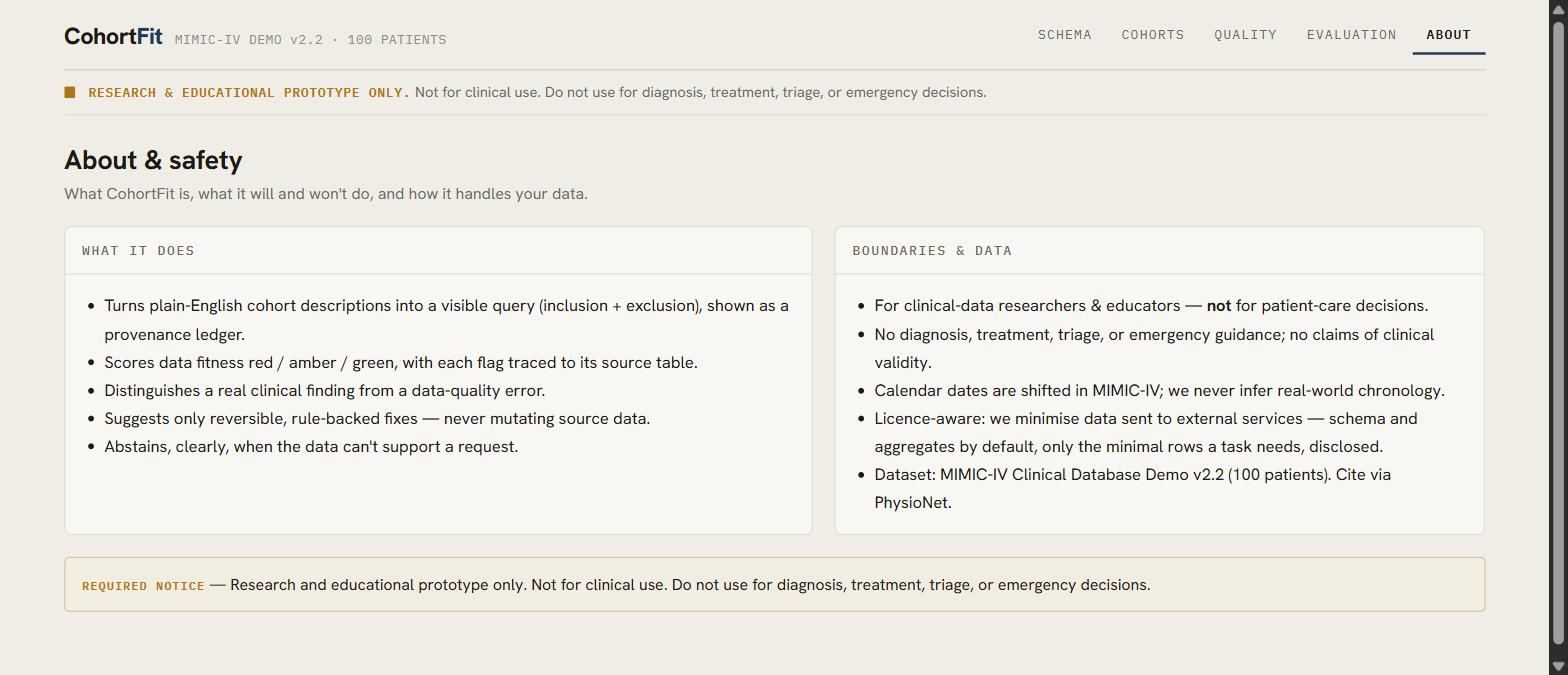
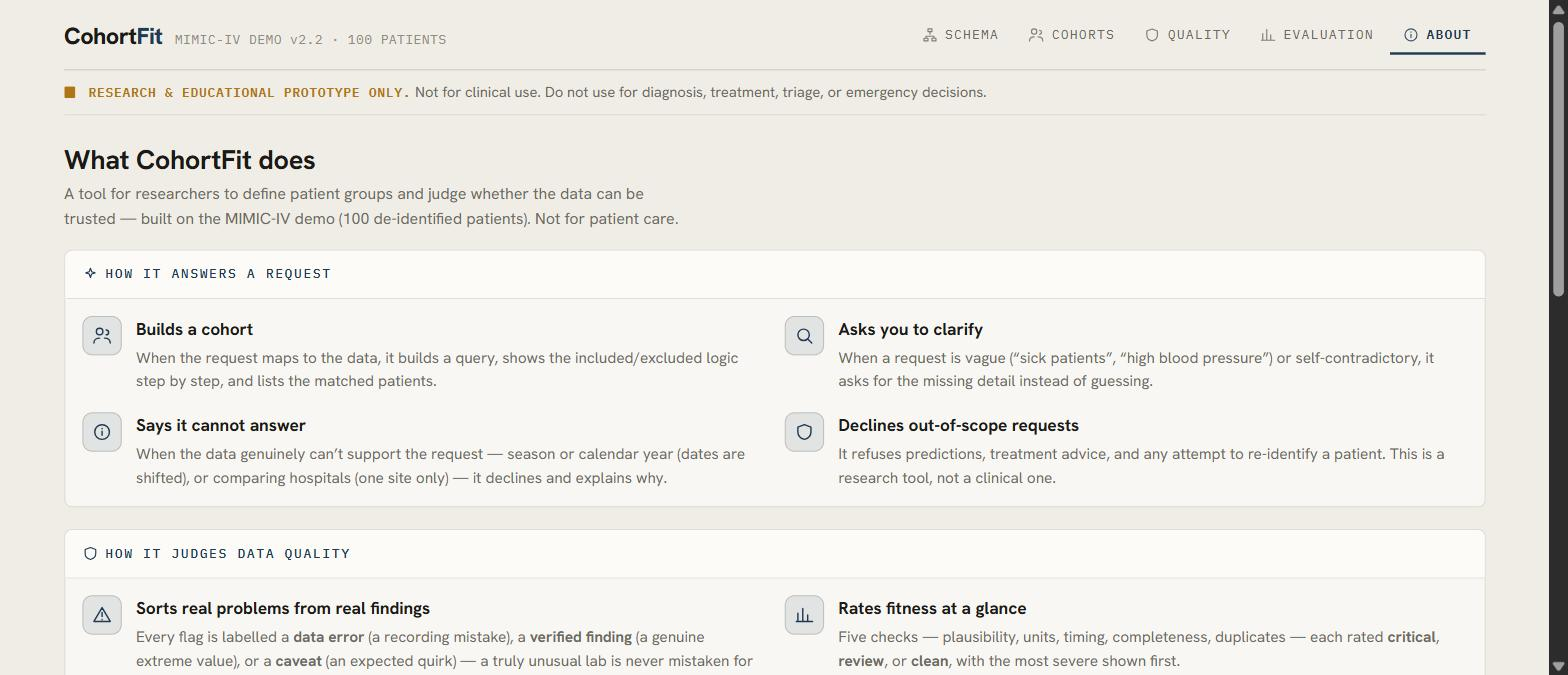
De-slop copy + explain the features: About becomes a plain-language capabilities page
- About: 'How it answers a request' (builds cohort / clarifies / cannot answer /
  declines) + 'How it judges data quality' (data error vs verified finding vs caveat;
  critical/review/clean) as icon cards — the response types were previously unexplained
- kill jargon: severity words are Critical/Review/Clean (no 'amber'); plain, concrete copy
- verified in-browser (app-about.jpg)

diff --git a/frontend/app/about/page.tsx b/frontend/app/about/page.tsx
@@ -1,57 +1,94 @@
+import { Icon, IconName } from "../components/Icon";
+
+function Capability({ icon, title, children }: { icon: IconName; title: string; children: React.ReactNode }) {
+  return (
+    <div className="cap">
+      <span className="cap-i"><Icon name={icon} size={16} /></span>
+      <div>
+        <div className="cap-t">{title}</div>
+        <div className="cap-b">{children}</div>
+      </div>
+    </div>
+  );
+}
+
 export default function AboutPage() {
   return (
     <>
       <div className="page-h">
         <div>
-          <h1>About &amp; safety</h1>
-          <p>What CohortFit is, what it will and won&apos;t do, and how it handles your data.</p>
+          <h1>What CohortFit does</h1>
+          <p>A tool for researchers to define patient groups and judge whether the data can be trusted — built on the MIMIC-IV demo (100 de-identified patients). Not for patient care.</p>
         </div>
       </div>
 
-      <div className="grid2">
-        <section className="panel">
-          <div className="panel-h"><span className="lbl">What it does</span></div>
-          <div className="panel-b">
-            <ul style={{ margin: 0, paddingLeft: 18, lineHeight: 1.7, fontSize: 13.5 }}>
-              <li>Turns plain-English cohort descriptions into a visible query (inclusion + exclusion), shown as a provenance ledger.</li>
-              <li>Scores data fitness red / amber / green, with each flag traced to its source table.</li>
-              <li>Distinguishes a real clinical finding from a data-quality error.</li>
-              <li>Suggests only reversible, rule-backed fixes — never mutating source data.</li>
-              <li>Abstains, clearly, when the data can&apos;t support a request.</li>
-            </ul>
-          </div>
-        </section>
+      {/* Response types — the behaviours the tool can produce */}
+      <section className="panel">
+        <div className="panel-h"><span className="lbl lbl-i"><Icon name="spark" size={13} /> How it answers a request</span></div>
+        <div className="panel-b caps">
+          <Capability icon="users" title="Builds a cohort">
+            When the request maps to the data, it builds a query, shows the included/excluded logic step by step, and lists the matched patients.
+          </Capability>
+          <Capability icon="search" title="Asks you to clarify">
+            When a request is vague (&ldquo;sick patients&rdquo;, &ldquo;high blood pressure&rdquo;) or self-contradictory, it asks for the missing detail instead of guessing.
+          </Capability>
+          <Capability icon="info" title="Says it cannot answer">
+            When the data genuinely can&rsquo;t support the request — season or calendar year (dates are shifted), or comparing hospitals (one site only) — it declines and explains why.
+          </Capability>
+          <Capability icon="shield" title="Declines out-of-scope requests">
+            It refuses predictions, treatment advice, and any attempt to re-identify a patient. This is a research tool, not a clinical one.
+          </Capability>
+        </div>
+      </section>
 
-        <section className="panel">
-          <div className="panel-h"><span className="lbl">Boundaries &amp; data</span></div>
-          <div className="panel-b">
-            <ul style={{ margin: 0, paddingLeft: 18, lineHeight: 1.7, fontSize: 13.5 }}>
-              <li>For clinical-data researchers &amp; educators — <b>not</b> for patient-care decisions.</li>
-              <li>No diagnosis, treatment, triage, or emergency guidance; no claims of clinical validity.</li>
-              <li>Calendar dates are shifted in MIMIC-IV; we never infer real-world chronology.</li>
-              <li>Licence-aware: we minimise data sent to external services — schema and aggregates by default, only the minimal rows a task needs, disclosed.</li>
-              <li>Dataset: MIMIC-IV Clinical Database Demo v2.2 (100 patients). Cite via PhysioNet.</li>
-            </ul>
-          </div>
-        </section>
-      </div>
-
+      {/* Data-quality behaviour */}
       <section className="panel" style={{ marginTop: 18 }}>
-        <div className="panel-h"><span className="lbl">Improvement over a fixed-rule baseline</span></div>
+        <div className="panel-h"><span className="lbl lbl-i"><Icon name="shield" size={13} /> How it judges data quality</span></div>
+        <div className="panel-b caps">
+          <Capability icon="alert" title="Sorts real problems from real findings">
+            Every flag is labelled a <b>data error</b> (a recording mistake), a <b>verified finding</b> (a genuine extreme value), or a <b>caveat</b> (an expected quirk) — a truly unusual lab is never mistaken for a typo.
+          </Capability>
+          <Capability icon="chart" title="Rates fitness at a glance">
+            Five checks — plausibility, units, timing, completeness, duplicates — each rated <b>critical</b>, <b>review</b>, or <b>clean</b>, with the most severe shown first.
+          </Capability>
+          <Capability icon="check" title="Suggests only reversible fixes">
+            A proposed fix (e.g. a mislabelled temperature) is applied to a working copy and logged so you can undo it. The source data is never changed.
+          </Capability>
+          <Capability icon="link" title="Traces every claim to its source">
+            Each finding points to its table and item id; each cohort row is drawn straight from the records — nothing is a black box.
+          </Capability>
+        </div>
+      </section>
+
+      {/* Improvement over baseline */}
+      <section className="panel" style={{ marginTop: 18 }}>
+        <div className="panel-h"><span className="lbl lbl-i"><Icon name="chart" size={13} /> Why it beats a fixed-rule checker</span></div>
         <div className="panel-b">
           <div className="tablewrap">
             <table className="gt">
-              <thead><tr><th>Fixed-rule baseline</th><th>CohortFit</th></tr></thead>
+              <thead><tr><th>A fixed-rule checker</th><th>CohortFit</th></tr></thead>
               <tbody>
-                <tr><td className="muted">Fixed thresholds; fails on anything unusual</td><td>Adapts using reference ranges and context (gated on <span className="mono">param_type</span>)</td></tr>
-                <tr><td className="muted">Flags every candidate equally</td><td>Ranks findings so the most severe are reviewed first</td></tr>
-                <tr><td className="muted">Cannot distinguish a genuine finding from a data error</td><td>Separates a genuine extreme value from a recording error</td></tr>
-                <tr><td className="muted">Provides no explanation</td><td>Attaches a plain-language reason and a source pointer to every finding</td></tr>
-                <tr><td className="muted">Requires the reviewer to inspect everything</td><td>Reports estimated review time saved per validated issue</td></tr>
+                <tr><td className="muted">Uses fixed thresholds; breaks on anything unusual</td><td>Adapts using reference ranges and context</td></tr>
+                <tr><td className="muted">Flags everything the same</td><td>Ranks problems so the worst are seen first</td></tr>
+                <tr><td className="muted">Can&rsquo;t tell a real finding from an error</td><td>Separates a genuine extreme value from a mistake</td></tr>
+                <tr><td className="muted">Gives no explanation</td><td>Explains each flag in plain words with a source link</td></tr>
               </tbody>
             </table>
           </div>
-          <p className="note">Quantified on the Detection Performance page: on the injected-error benchmark, the fixed-rule baseline reaches a precision of approximately 0.07 (it flags almost everything), whereas CohortFit maintains a precision of 1.00.</p>
+          <p className="note">On the injected-error benchmark, a fixed rule reaches about 0.07 precision — it flags almost everything — while CohortFit stays at 1.00. See the Evaluation page.</p>
+        </div>
+      </section>
+
+      {/* Boundaries */}
+      <section className="panel" style={{ marginTop: 18 }}>
+        <div className="panel-h"><span className="lbl lbl-i"><Icon name="info" size={13} /> Scope &amp; data handling</span></div>
+        <div className="panel-b">
+          <ul style={{ margin: 0, paddingLeft: 18, lineHeight: 1.8, fontSize: 13.5 }}>
+            <li>For researchers and educators — <b>not</b> for patient-care decisions. No diagnosis, treatment, or triage.</li>
+            <li>Dates in MIMIC-IV are shifted, so real-world time and season are never inferred.</li>
+            <li>The model receives the schema and your description — not raw patient records. Nothing is sent to re-identify anyone.</li>
+            <li>Dataset: MIMIC-IV Clinical Database Demo v2.2 (100 patients), used under the PhysioNet licence.</li>
+          </ul>
         </div>
       </section>
 

diff --git a/frontend/app/globals.css b/frontend/app/globals.css
@@ -114,6 +114,15 @@ main{padding:20px 0 60px}
 .stp-row.running .stp-label,.stp-row.done .stp-label{color:var(--ink)}
 .stp-row.running .stp-label{font-weight:600}
 .stp-meta{font-family:var(--mono);font-size:10.5px;color:var(--faint);line-height:1.4}
+
+/* capabilities cards (About) */
+.caps{display:grid;grid-template-columns:1fr 1fr;gap:16px}
+@media(max-width:720px){.caps{grid-template-columns:1fr}}
+.cap{display:flex;gap:12px;align-items:flex-start}
+.cap-i{width:32px;height:32px;flex:0 0 auto;border-radius:8px;display:inline-flex;align-items:center;justify-content:center;
+  background:color-mix(in srgb,var(--accent) 10%,var(--surface));color:var(--accent);border:1px solid color-mix(in srgb,var(--accent) 22%,var(--line))}
+.cap-t{font-weight:640;font-size:14px}
+.cap-b{font-size:12.5px;color:var(--muted);line-height:1.55;margin-top:3px}
 .search{background:var(--surface-2);border:1px solid var(--line-strong);border-radius:var(--rk);padding:8px 11px;font:inherit;color:var(--ink);width:220px}
 
 /* provenance ledger */

diff --git a/frontend/app/components/charts.tsx b/frontend/app/components/charts.tsx
@@ -7,7 +7,7 @@
 
 export type Sev = "red" | "amber" | "green";
 const SEV_VAR: Record<Sev, string> = { red: "var(--danger)", amber: "var(--warn)", green: "var(--ok)" };
-const SEV_WORD: Record<Sev, string> = { red: "Critical", amber: "Caution", green: "Clean" };
+const SEV_WORD: Record<Sev, string> = { red: "Critical", amber: "Review", green: "Clean" };
 
 export function Verdict({ severity, title, sub }: { severity: Sev; title: string; sub: string }) {
   return (
